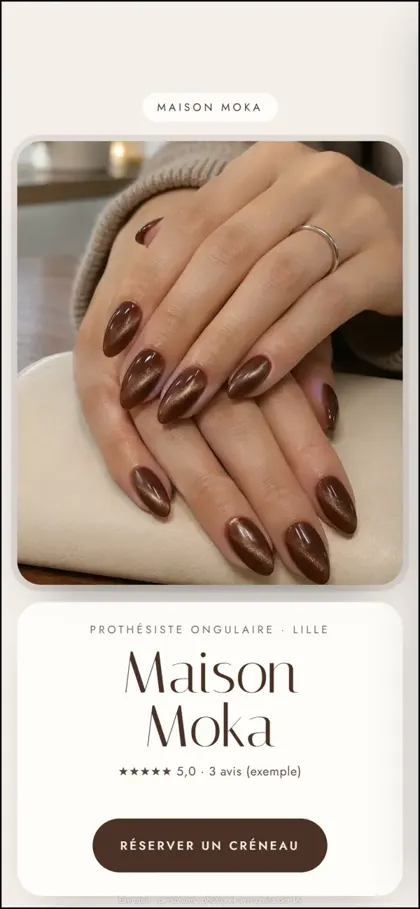
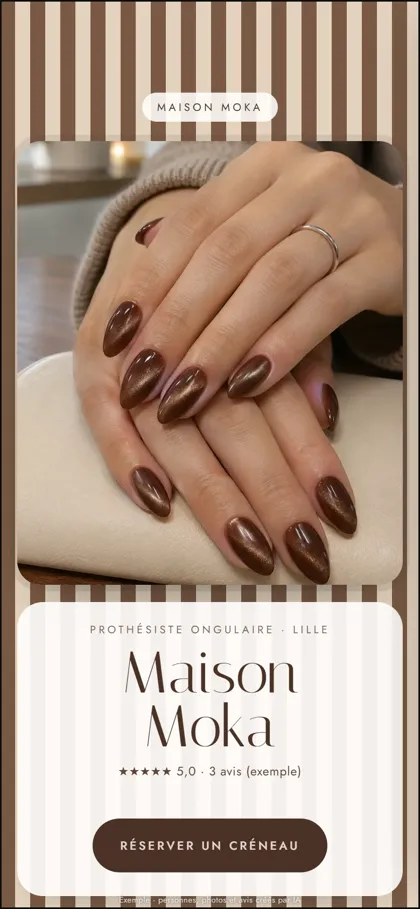
Sites classe : rayures moka (Maison Moka), damier noir et crème (Maison Noire, nom sur une bande crème), étoiles noires sur crème (Atelier Ronce)

Changed region(s): [[0.0, 0.0, 1.0, 1.0]]

diff --git a/accueil-ordi.html b/accueil-ordi.html
@@ -556,7 +556,7 @@ details p{margin:10px 0 0;font-size:14px;color:#4a4440;line-height:1.55}
 /* iPhone dans Safari : la bulle de l’adresse flotte en bas de l’écran, on remonte les boutons du bas */
 if(/iPhone|iPad|iPod/.test(navigator.userAgent)&&!navigator.standalone&&!matchMedia("(display-mode: standalone)").matches)document.documentElement.classList.add("ios-safari");
 if("scrollRestoration" in history)history.scrollRestoration="manual";scrollTo(0,0);addEventListener("pageshow",()=>scrollTo(0,0));
-const TPL=[["Maison Moka", "style=1&couleur=choco&mode=jour&police=elegante&paillettes=non&photos=moka-4&portrait=moka", "tpl-maisonmoka", "Amande"], ["Maison Noire", "style=1&epure=1&couleur=noir&mode=jour&police=luxe&paillettes=or&photos=noire-4&portrait=noire", "tpl-maisonnoire", "Ovale"], ["Atelier Ronce", "style=1&arrondi=1&couleur=noir&mode=jour&police=elegante&paillettes=argent&photos=blanc-3&portrait=blanc", "tpl-atelierronce", "Carré arrondi"], ["Maison Sauge", "style=3&couleur=sauge&mode=jour&police=elegante&paillettes=or&photos=douceur-2&photoune=salon&portrait=douceur", "tpl-maisonsauge", "Carré"], ["Maison Lin", "style=2&couleur=lin&mode=jour&police=chic&paillettes=nacre&photos=clean-2&portrait=clean", "tpl-maisonlin", "Stiletto"], ["Studio Poudré", "style=1&coffin=1&couleur=nude&mode=jour&police=elegante&paillettes=nacre&photos=poudre-3&portrait=poudre", "tpl-studiopoudre", "Coffin"]],UNI=[["Cerise", "style=3&couleur=choco&vif=rosep&nomc=rosep&mode=jour&fond=Cerises%20qui%20tombent&police=ronde&paillettes=rose&charm=noeudcerise,framboise,cerisedisco,cerisecoeur,ceriseruban,cerises-roses,noeudgelee&photos=cerise-5&photoune=haut&portrait=cerise", "cerise", "Cerises disco et vichy"], ["Pastel", "style=2&couleur=lilas&vif=mentep&nomc=lilasp&mode=jour&fond=Damier%20aquarelle%20et%20cerises&police=bonbon&paillettes=holo&charm=guimauve,fleurlilas,noeudgelee,marguerite,consoleviolette,axolotl&photos=pastel-3&photoune=salon&portrait=pastel", "pastel", "Guimauve, fleurs et vichy"], ["Chrome", "style=2&couleur=greige&mode=nuit&fond=%C3%89toiles%20strass%20argent&police=astres&paillettes=argent&charm=saturne,tribal,etoile4,papilloncyber&photos=chrome-4&photoune=salon&portrait=chrome", "chrome", "Argent, tribal et irisé"], ["Bling", "style=1&epure=1&couleur=choco&vif=jaunep&mode=jour&fond=L%C3%A9opard&police=bulle&paillettes=or&charm=boule8or,levresgrillz,cerisesor,etoilestrass,gourmette,hamsa,spray&photos=bling-5&photoune=salon&portrait=bling", "bling", "Léopard, chaînes et strass"], ["Emo", "style=1&arrondi=1&couleur=noir&vif=fuchsia&mode=jour&fond=Vinyles%20noir%20et%20cr%C3%A8me&police=feutre&charm=monstreemo,coeurrecousu,epingle,etoileemo,cranenoeud,chat&photos=emo-2&photoune=salon&portrait=emo", "emo", "Fluo, étoiles et petits monstres"], ["Riviera", "style=1&epure=1&couleur=jaune&vif=jaunep&nomc=bleup&mode=jour&fond=Majolique&police=parisienne&paillettes=or&charm=citron3d,tranchecitron,fleurmajolique,marguerite,noeudcitron,citron,potmarguerites&photos=riviera-3&photoune=salon&portrait=riviera", "riviera", "Citrons, faïence et soleil"], ["Sixties", "style=1&arrondi=1&couleur=abricot&vif=orange&mode=jour&fond=Pois%20beige&police=y2k&paillettes=argent&charm=lunettes,botte,cible,fleursixties,bonbon,bouledisco,boule8&photos=sixties-4&photoune=salon&portrait=sixties", "sixties", "Cibles, vagues et orange"], ["Baroque", "style=3&couleur=rose&vif=cerise&nomc=or&mode=jour&fond=Oliviers%20et%20hirondelles&police=calligraphie&paillettes=or&charm=camee,angelot,rosebordeaux,coeurrubis,noeudperledor&photos=baroque-2&photoune=salon&portrait=baroque", "baroque", "Roses, camées et velours"], ["Street", "style=1&couleur=jaune&vif=bleup&nomc=ciel&mode=jour&fond=Z%C3%A8bre%20peint&police=feutre&paillettes=argent&charm=spray,etoiledrip,eclair,couronnebleue,labrador,de,coeurzebre,boule8,etoileemo,manette,nounours,robot&chpos=spray~72-37.7_etoiledrip~59.2-14.1_eclair~5.4-23.1_couronnebleue~7-49_labrador~79.9-91.1_de~80-75.5_coeurzebre~15.3-6_boule8~72.3-55.5_etoileemo~37.7-45.6_manette~9.3-77.2_nounours~5.7-93.2_robot~76.8-4.6&photos=street-6&photoune=salon&portrait=street", "street", "Graffitis, chaînes et zèbre"], ["Japon", "style=2&couleur=choco&vif=pechep&nomc=blanc&mode=jour&fond=Mont%20Fuji%20et%20sakura&police=chic&paillettes=or&charm=sakura,koi,eventail,manekineko,sushi,ramen,bonsai,theiere,aloe&photos=japon-4&photoune=salon&portrait=japon", "japon", "Sakura, koï et Mont Fuji"], ["Tropical", "style=1&arrondi=1&couleur=sauge&vif=orange&mode=jour&police=y2k&paillettes=or&charm=papaye,fruitpassion,monstera,hibiscus,frangipanier,cactus,cactusboule,cactusrose,hibiscusrose,lunetteslilas,sakura,perroquet&chpos=papaye~79-7.7_fruitpassion~58.9-3.2_monstera~79-22.5_hibiscus~10.9-5.8_frangipanier~32.2-2.8_cactus~50.1-29.4_cactusboule~1-52.8_cactusrose~8.9-80.5_hibiscusrose~56.4-86.6_lunetteslilas~33.3-86.9_sakura~76.8-36.1_perroquet~78-58&photos=tropical-3&photoune=salon&portrait=tropical", "tropical", "Hibiscus, cactus et perroquet"], ["Sirène", "style=1&coffin=1&couleur=menthe&vif=turquoise&mode=jour&fond=Bulles&police=retro&paillettes=holo&charm=coquillage,saintjacques,perle,huitreperle,hippocampe,meduse,axolotl,cristaux,hippocampeturquoise,noeudperle,tortue,coquespirale&chpos=coquillage~74.2-15.6_saintjacques~62.8-29.9_perle~4.4-2.7_huitreperle~67.5-63_hippocampe~76.6-50_meduse~11-63.6_axolotl~33-7.3_cristaux~7.1-82.6_hippocampeturquoise~73.6-1.3_noeudperle~76.2-90.4_tortue~63.8-77.6_coquespirale~34.9-73.3&photos=sirene-3&photoune=salon&portrait=sirene", "sirene", "Coquillages, perles et bulles"], ["Féerique", "style=2&couleur=lilas&vif=rosep&nomc=lilasp&mode=jour&fond=Lavande%20s%C3%A9ch%C3%A9e&police=manuscrite&paillettes=or&charm=angelot,perle,papillondore,coquillage,coquespirale&photos=feerique-2&photoune=salon&portrait=feerique", "feerique", "Glycines, perles et papillons"], ["Céleste", "style=1&arrondi=1&couleur=sable&vif=chocob&mode=nuit&fond=Soleils%20et%20lunes%20sur%20vert%20sauge&police=astres&paillettes=or&charm=soleilvisage,lunesoleil,lune,etoile,papillondore,etoilestrass,ferdore&chpos=soleilvisage~69-5.6_lunesoleil~62.8-37_lune~81.6-22.3_etoile~4.8-34.3_papillondore~13.2-68.5_etoilestrass~57.8-87.8_ferdore~66.4-65.1&photos=celeste-4&photoune=salon&portrait=celeste", "celeste", "Soleils, lunes et étoiles"], ["Pop", "style=1&coffin=1&couleur=jaune&vif=orange&mode=jour&fond=Damier%20ondul%C3%A9&police=seventies&paillettes=holo&charm=chat,champignon,fleur,boule8,cerises,canard,monsterapot,marguerite,cassette&chpos=chat~46.1-6.5_champignon~80-10_fleur~4.7-18.8_boule8~82-40_cerises~5.1-53.4_canard~77.9-53.7_monsterapot~11.5-4.7_marguerite~64.5-69.3_cassette~17.3-72.7&photos=pop-6&photoune=salon&portrait=pop", "pop", "Damier, cerises et champignons"], ["Baddie", "style=1&couleur=noir&mode=nuit&fond=Z%C3%A8bre&police=retro&paillettes=or&charm=levres,coeurleopard,coeurzebre,cerisesbordeaux,escarpin,etoile,rougealevres,teckelcreme,plateforme,etoilechrome,etoiledrip&chpos=levres~4.6-71.5_coeurleopard~12-10_coeurzebre~4-24_cerisesbordeaux~82-40_escarpin~56.2-6.6_etoile~77.2-74.7_rougealevres~83-89.7_teckelcreme~28.3-59.9_plateforme~19-87.1_etoilechrome~78-57_etoiledrip~85.1-1.3&photos=baddie-4&photoune=salon&portrait=baddie", "baddie", "Rouge, léopard et talons"], ["Mignon", "style=1&epure=1&couleur=rose&mode=jour&fond=Rose%20coquette&police=bonbon&paillettes=nacre&charm=ceriseruban,fraiseperle,noeudgelee,fleurgelee,axolotl,framboise,pottulipes,macaron,fleurlilas,dragon&photos=mignon-4&photoune=salon&photosalon=1&portrait=mignon", "mignon", "Rose coquette et petits nœuds"], ["Y2K", "style=2&couleur=lilas&mode=jour&fond=Reflets%20disco&police=y2k&paillettes=holo&charm=coeurlilas,planete,oursonlilas,etoilelilas,martien,coeurchrome,casque,consoleviolette,papillon,sechecheveux,fleurlilas,vinyle&chpos=coeurlilas~62.2-54.9_planete~61-11.3_oursonlilas~9.6-26.3_etoilelilas~82-40_martien~2.3-55.6_coeurchrome~63-92.9_casque~13.6-9.9_consoleviolette~74.7-25.3_papillon~23.3-45.4_sechecheveux~65.7-81.6_fleurlilas~0-87.6_vinyle~83.5-71.8&photos=y2k-3&photoune=haut&portrait=y2k", "y2k", "Lilas, chrome et martiens"], ["Gothique", "style=1&couleur=noir&mode=nuit&fond=Rayures%20nuit&police=gothique&paillettes=argent&charm=araignee,croixgothique,lunegothique,vitrail,clegothique,chauvesouris,dague,papilloncyber,tribal,daguevio&chpos=araignee~38.1-55.1_croixgothique~80-10_lunegothique~81.5-52_vitrail~80.9-87.8_clegothique~3-58_chauvesouris~7.1-83.4_dague~12.5-5.5_papilloncyber~57.5-16.9_tribal~60.9-1.3_daguevio~75.9-66.9&photos=gothique-8&photoune=salon&portrait=gothique", "gothique", "Noir, croix et mystère"]],PLUIE=[...(matchMedia("(min-width: 1000px)").matches?["champirouge", "ancre", "poissonglobe", "cerises", "teckel", "sacmatelasse", "radis", "coeurepinesmetal", "clenoire", "avion", "aubergine", "ciseaux", "macaron", "chapeausorciere", "meduserose", "lanterne", "chemisepliee", "fleur", "venus", "manette", "luciole", "collierperles", "tribalfleche", "burrata", "instantane", "chocolatchaud", "mante", "coquespirale", "lavande", "pointes", "chihuahua", "balancejustice", "aileange", "clochegateau", "grimoirelune", "cachetcire", "arcaderose", "kiwi", "serpentor", "etoileemo", "lunenacre", "noeudcitron", "corail", "croixargent", "marquepage", "souris", "camerasport", "etoilesherif", "okapi", "amethyste", "succulente", "ferdore", "manekineko", "cadenasbordeaux", "sakura", "noeudvelours", "nichoir", "coeurepines", "nounours", "croissantchrome", "manetteblanche", "soleilvisage", "bergerallemand", "coeurleopard", "coquillage", "bouledisco", "plateauspa", "chaussonlapin", "coeurfeuille", "coeurzebre", "bottefleurie", "devanture", "toureiffel", "noeudrose", "noeuddore", "bonnet", "coeursacre", "etoileajouree", "bergeraustralien", "fuseerouge", "coeurpiques", "astronautebebe", "etoilebleuciel", "spiralechrome", "smartphone", "passiondemi", "gouvernail", "appareilretro", "palmier", "ferachevalet"]:[]),"teckelcreme", "sushi", "hibiscus", "bouledisco", "cerisedisco", "cocker", "fleur", "hippocampe", "martien", "monstera", "peche", "ramen", "planete", "pothos", "koi", "levresgrillz", "eclair", "chatecaille", "canard", "chapeaucowboy"];
+const TPL=[["Maison Moka", "style=1&couleur=choco&mode=jour&fond=Rayures%20moka&police=elegante&paillettes=non&photos=moka-4&portrait=moka", "tpl-maisonmoka", "Amande"], ["Maison Noire", "style=1&epure=1&couleur=noir&mode=jour&fond=Damier%20noir%20et%20cr%C3%A8me&police=luxe&paillettes=or&photos=noire-4&portrait=noire", "tpl-maisonnoire", "Ovale"], ["Atelier Ronce", "style=1&arrondi=1&couleur=noir&mode=jour&fond=%C3%89toiles%20noires%20sur%20cr%C3%A8me&police=elegante&paillettes=argent&photos=blanc-3&portrait=blanc", "tpl-atelierronce", "Carré arrondi"], ["Maison Sauge", "style=3&couleur=sauge&mode=jour&police=elegante&paillettes=or&photos=douceur-2&photoune=salon&portrait=douceur", "tpl-maisonsauge", "Carré"], ["Maison Lin", "style=2&couleur=lin&mode=jour&police=chic&paillettes=nacre&photos=clean-2&portrait=clean", "tpl-maisonlin", "Stiletto"], ["Studio Poudré", "style=1&coffin=1&couleur=nude&mode=jour&police=elegante&paillettes=nacre&photos=poudre-3&portrait=poudre", "tpl-studiopoudre", "Coffin"]],UNI=[["Cerise", "style=3&couleur=choco&vif=rosep&nomc=rosep&mode=jour&fond=Cerises%20qui%20tombent&police=ronde&paillettes=rose&charm=noeudcerise,framboise,cerisedisco,cerisecoeur,ceriseruban,cerises-roses,noeudgelee&photos=cerise-5&photoune=haut&portrait=cerise", "cerise", "Cerises disco et vichy"], ["Pastel", "style=2&couleur=lilas&vif=mentep&nomc=lilasp&mode=jour&fond=Damier%20aquarelle%20et%20cerises&police=bonbon&paillettes=holo&charm=guimauve,fleurlilas,noeudgelee,marguerite,consoleviolette,axolotl&photos=pastel-3&photoune=salon&portrait=pastel", "pastel", "Guimauve, fleurs et vichy"], ["Chrome", "style=2&couleur=greige&mode=nuit&fond=%C3%89toiles%20strass%20argent&police=astres&paillettes=argent&charm=saturne,tribal,etoile4,papilloncyber&photos=chrome-4&photoune=salon&portrait=chrome", "chrome", "Argent, tribal et irisé"], ["Bling", "style=1&epure=1&couleur=choco&vif=jaunep&mode=jour&fond=L%C3%A9opard&police=bulle&paillettes=or&charm=boule8or,levresgrillz,cerisesor,etoilestrass,gourmette,hamsa,spray&photos=bling-5&photoune=salon&portrait=bling", "bling", "Léopard, chaînes et strass"], ["Emo", "style=1&arrondi=1&couleur=noir&vif=fuchsia&mode=jour&fond=Vinyles%20noir%20et%20cr%C3%A8me&police=feutre&charm=monstreemo,coeurrecousu,epingle,etoileemo,cranenoeud,chat&photos=emo-2&photoune=salon&portrait=emo", "emo", "Fluo, étoiles et petits monstres"], ["Riviera", "style=1&epure=1&couleur=jaune&vif=jaunep&nomc=bleup&mode=jour&fond=Majolique&police=parisienne&paillettes=or&charm=citron3d,tranchecitron,fleurmajolique,marguerite,noeudcitron,citron,potmarguerites&photos=riviera-3&photoune=salon&portrait=riviera", "riviera", "Citrons, faïence et soleil"], ["Sixties", "style=1&arrondi=1&couleur=abricot&vif=orange&mode=jour&fond=Pois%20beige&police=y2k&paillettes=argent&charm=lunettes,botte,cible,fleursixties,bonbon,bouledisco,boule8&photos=sixties-4&photoune=salon&portrait=sixties", "sixties", "Cibles, vagues et orange"], ["Baroque", "style=3&couleur=rose&vif=cerise&nomc=or&mode=jour&fond=Oliviers%20et%20hirondelles&police=calligraphie&paillettes=or&charm=camee,angelot,rosebordeaux,coeurrubis,noeudperledor&photos=baroque-2&photoune=salon&portrait=baroque", "baroque", "Roses, camées et velours"], ["Street", "style=1&couleur=jaune&vif=bleup&nomc=ciel&mode=jour&fond=Z%C3%A8bre%20peint&police=feutre&paillettes=argent&charm=spray,etoiledrip,eclair,couronnebleue,labrador,de,coeurzebre,boule8,etoileemo,manette,nounours,robot&chpos=spray~72-37.7_etoiledrip~59.2-14.1_eclair~5.4-23.1_couronnebleue~7-49_labrador~79.9-91.1_de~80-75.5_coeurzebre~15.3-6_boule8~72.3-55.5_etoileemo~37.7-45.6_manette~9.3-77.2_nounours~5.7-93.2_robot~76.8-4.6&photos=street-6&photoune=salon&portrait=street", "street", "Graffitis, chaînes et zèbre"], ["Japon", "style=2&couleur=choco&vif=pechep&nomc=blanc&mode=jour&fond=Mont%20Fuji%20et%20sakura&police=chic&paillettes=or&charm=sakura,koi,eventail,manekineko,sushi,ramen,bonsai,theiere,aloe&photos=japon-4&photoune=salon&portrait=japon", "japon", "Sakura, koï et Mont Fuji"], ["Tropical", "style=1&arrondi=1&couleur=sauge&vif=orange&mode=jour&police=y2k&paillettes=or&charm=papaye,fruitpassion,monstera,hibiscus,frangipanier,cactus,cactusboule,cactusrose,hibiscusrose,lunetteslilas,sakura,perroquet&chpos=papaye~79-7.7_fruitpassion~58.9-3.2_monstera~79-22.5_hibiscus~10.9-5.8_frangipanier~32.2-2.8_cactus~50.1-29.4_cactusboule~1-52.8_cactusrose~8.9-80.5_hibiscusrose~56.4-86.6_lunetteslilas~33.3-86.9_sakura~76.8-36.1_perroquet~78-58&photos=tropical-3&photoune=salon&portrait=tropical", "tropical", "Hibiscus, cactus et perroquet"], ["Sirène", "style=1&coffin=1&couleur=menthe&vif=turquoise&mode=jour&fond=Bulles&police=retro&paillettes=holo&charm=coquillage,saintjacques,perle,huitreperle,hippocampe,meduse,axolotl,cristaux,hippocampeturquoise,noeudperle,tortue,coquespirale&chpos=coquillage~74.2-15.6_saintjacques~62.8-29.9_perle~4.4-2.7_huitreperle~67.5-63_hippocampe~76.6-50_meduse~11-63.6_axolotl~33-7.3_cristaux~7.1-82.6_hippocampeturquoise~73.6-1.3_noeudperle~76.2-90.4_tortue~63.8-77.6_coquespirale~34.9-73.3&photos=sirene-3&photoune=salon&portrait=sirene", "sirene", "Coquillages, perles et bulles"], ["Féerique", "style=2&couleur=lilas&vif=rosep&nomc=lilasp&mode=jour&fond=Lavande%20s%C3%A9ch%C3%A9e&police=manuscrite&paillettes=or&charm=angelot,perle,papillondore,coquillage,coquespirale&photos=feerique-2&photoune=salon&portrait=feerique", "feerique", "Glycines, perles et papillons"], ["Céleste", "style=1&arrondi=1&couleur=sable&vif=chocob&mode=nuit&fond=Soleils%20et%20lunes%20sur%20vert%20sauge&police=astres&paillettes=or&charm=soleilvisage,lunesoleil,lune,etoile,papillondore,etoilestrass,ferdore&chpos=soleilvisage~69-5.6_lunesoleil~62.8-37_lune~81.6-22.3_etoile~4.8-34.3_papillondore~13.2-68.5_etoilestrass~57.8-87.8_ferdore~66.4-65.1&photos=celeste-4&photoune=salon&portrait=celeste", "celeste", "Soleils, lunes et étoiles"], ["Pop", "style=1&coffin=1&couleur=jaune&vif=orange&mode=jour&fond=Damier%20ondul%C3%A9&police=seventies&paillettes=holo&charm=chat,champignon,fleur,boule8,cerises,canard,monsterapot,marguerite,cassette&chpos=chat~46.1-6.5_champignon~80-10_fleur~4.7-18.8_boule8~82-40_cerises~5.1-53.4_canard~77.9-53.7_monsterapot~11.5-4.7_marguerite~64.5-69.3_cassette~17.3-72.7&photos=pop-6&photoune=salon&portrait=pop", "pop", "Damier, cerises et champignons"], ["Baddie", "style=1&couleur=noir&mode=nuit&fond=Z%C3%A8bre&police=retro&paillettes=or&charm=levres,coeurleopard,coeurzebre,cerisesbordeaux,escarpin,etoile,rougealevres,teckelcreme,plateforme,etoilechrome,etoiledrip&chpos=levres~4.6-71.5_coeurleopard~12-10_coeurzebre~4-24_cerisesbordeaux~82-40_escarpin~56.2-6.6_etoile~77.2-74.7_rougealevres~83-89.7_teckelcreme~28.3-59.9_plateforme~19-87.1_etoilechrome~78-57_etoiledrip~85.1-1.3&photos=baddie-4&photoune=salon&portrait=baddie", "baddie", "Rouge, léopard et talons"], ["Mignon", "style=1&epure=1&couleur=rose&mode=jour&fond=Rose%20coquette&police=bonbon&paillettes=nacre&charm=ceriseruban,fraiseperle,noeudgelee,fleurgelee,axolotl,framboise,pottulipes,macaron,fleurlilas,dragon&photos=mignon-4&photoune=salon&photosalon=1&portrait=mignon", "mignon", "Rose coquette et petits nœuds"], ["Y2K", "style=2&couleur=lilas&mode=jour&fond=Reflets%20disco&police=y2k&paillettes=holo&charm=coeurlilas,planete,oursonlilas,etoilelilas,martien,coeurchrome,casque,consoleviolette,papillon,sechecheveux,fleurlilas,vinyle&chpos=coeurlilas~62.2-54.9_planete~61-11.3_oursonlilas~9.6-26.3_etoilelilas~82-40_martien~2.3-55.6_coeurchrome~63-92.9_casque~13.6-9.9_consoleviolette~74.7-25.3_papillon~23.3-45.4_sechecheveux~65.7-81.6_fleurlilas~0-87.6_vinyle~83.5-71.8&photos=y2k-3&photoune=haut&portrait=y2k", "y2k", "Lilas, chrome et martiens"], ["Gothique", "style=1&couleur=noir&mode=nuit&fond=Rayures%20nuit&police=gothique&paillettes=argent&charm=araignee,croixgothique,lunegothique,vitrail,clegothique,chauvesouris,dague,papilloncyber,tribal,daguevio&chpos=araignee~38.1-55.1_croixgothique~80-10_lunegothique~81.5-52_vitrail~80.9-87.8_clegothique~3-58_chauvesouris~7.1-83.4_dague~12.5-5.5_papilloncyber~57.5-16.9_tribal~60.9-1.3_daguevio~75.9-66.9&photos=gothique-8&photoune=salon&portrait=gothique", "gothique", "Noir, croix et mystère"]],PLUIE=[...(matchMedia("(min-width: 1000px)").matches?["champirouge", "ancre", "poissonglobe", "cerises", "teckel", "sacmatelasse", "radis", "coeurepinesmetal", "clenoire", "avion", "aubergine", "ciseaux", "macaron", "chapeausorciere", "meduserose", "lanterne", "chemisepliee", "fleur", "venus", "manette", "luciole", "collierperles", "tribalfleche", "burrata", "instantane", "chocolatchaud", "mante", "coquespirale", "lavande", "pointes", "chihuahua", "balancejustice", "aileange", "clochegateau", "grimoirelune", "cachetcire", "arcaderose", "kiwi", "serpentor", "etoileemo", "lunenacre", "noeudcitron", "corail", "croixargent", "marquepage", "souris", "camerasport", "etoilesherif", "okapi", "amethyste", "succulente", "ferdore", "manekineko", "cadenasbordeaux", "sakura", "noeudvelours", "nichoir", "coeurepines", "nounours", "croissantchrome", "manetteblanche", "soleilvisage", "bergerallemand", "coeurleopard", "coquillage", "bouledisco", "plateauspa", "chaussonlapin", "coeurfeuille", "coeurzebre", "bottefleurie", "devanture", "toureiffel", "noeudrose", "noeuddore", "bonnet", "coeursacre", "etoileajouree", "bergeraustralien", "fuseerouge", "coeurpiques", "astronautebebe", "etoilebleuciel", "spiralechrome", "smartphone", "passiondemi", "gouvernail", "appareilretro", "palmier", "ferachevalet"]:[]),"teckelcreme", "sushi", "hibiscus", "bouledisco", "cerisedisco", "cocker", "fleur", "hippocampe", "martien", "monstera", "peche", "ramen", "planete", "pothos", "koi", "levresgrillz", "eclair", "chatecaille", "canard", "chapeaucowboy"];
 const url=q=>"loginail-creer/pret.html?public&nouveau&exemple=dilerna&"+q;
 /* (anciennes galeries) */ void TPL.map(t=>`<a class="carte" href="${url(t[1])}" data-u="${url(t[1])}"><div class="ph"><img src="loginail-site/apercus-mini/${t[2]}.webp" alt="" loading="lazy"></div><b>${t[0]}</b><small>${t[3]} · touchez pour ouvrir</small></a>`).join("");
 void UNI.map(t=>`<a class="carte" href="${url(t[1])}" data-u="${url(t[1])}"><div class="ph"><img src="loginail-site/apercus-mini/${t[2]}.webp" alt="" loading="lazy"></div><b>${t[0]}</b><small>${t[3]}</small></a>`).join("");

diff --git a/telephone.html b/telephone.html
@@ -343,7 +343,7 @@ details p{margin:10px 0 0;font-size:14px;color:#4a4440;line-height:1.55}
 /* iPhone dans Safari : la bulle de l’adresse flotte en bas de l’écran, on remonte les boutons du bas */
 if(/iPhone|iPad|iPod/.test(navigator.userAgent)&&!navigator.standalone&&!matchMedia("(display-mode: standalone)").matches)document.documentElement.classList.add("ios-safari");
 if("scrollRestoration" in history)history.scrollRestoration="manual";scrollTo(0,0);addEventListener("pageshow",()=>scrollTo(0,0));
-const TPL=[["Maison Moka", "style=1&couleur=choco&mode=jour&police=elegante&paillettes=non&photos=moka-4&portrait=moka", "tpl-maisonmoka", "Amande"], ["Maison Noire", "style=1&epure=1&couleur=noir&mode=jour&police=luxe&paillettes=or&photos=noire-4&portrait=noire", "tpl-maisonnoire", "Ovale"], ["Atelier Ronce", "style=1&arrondi=1&couleur=noir&mode=jour&police=elegante&paillettes=argent&photos=blanc-3&portrait=blanc", "tpl-atelierronce", "Carré arrondi"], ["Maison Sauge", "style=3&couleur=sauge&mode=jour&police=elegante&paillettes=or&photos=douceur-2&photoune=salon&portrait=douceur", "tpl-maisonsauge", "Carré"], ["Maison Lin", "style=2&couleur=lin&mode=jour&police=chic&paillettes=nacre&photos=clean-2&portrait=clean", "tpl-maisonlin", "Stiletto"], ["Studio Poudré", "style=1&coffin=1&couleur=nude&mode=jour&police=elegante&paillettes=nacre&photos=poudre-3&portrait=poudre", "tpl-studiopoudre", "Coffin"]],UNI=[["Cerise", "style=3&couleur=choco&vif=rosep&nomc=rosep&mode=jour&fond=Cerises%20qui%20tombent&police=ronde&paillettes=rose&charm=noeudcerise,framboise,cerisedisco,cerisecoeur,ceriseruban,cerises-roses,noeudgelee&photos=cerise-5&photoune=haut&portrait=cerise", "cerise", "Cerises disco et vichy"], ["Pastel", "style=2&couleur=lilas&vif=mentep&nomc=lilasp&mode=jour&fond=Damier%20aquarelle%20et%20cerises&police=bonbon&paillettes=holo&charm=guimauve,fleurlilas,noeudgelee,marguerite,consoleviolette,axolotl&photos=pastel-3&photoune=salon&portrait=pastel", "pastel", "Guimauve, fleurs et vichy"], ["Chrome", "style=2&couleur=greige&mode=nuit&fond=%C3%89toiles%20strass%20argent&police=astres&paillettes=argent&charm=saturne,tribal,etoile4,papilloncyber&photos=chrome-4&photoune=salon&portrait=chrome", "chrome", "Argent, tribal et irisé"], ["Bling", "style=1&epure=1&couleur=choco&vif=jaunep&mode=jour&fond=L%C3%A9opard&police=bulle&paillettes=or&charm=boule8or,levresgrillz,cerisesor,etoilestrass,gourmette,hamsa,spray&photos=bling-5&photoune=salon&portrait=bling", "bling", "Léopard, chaînes et strass"], ["Emo", "style=1&arrondi=1&couleur=noir&vif=fuchsia&mode=jour&fond=Vinyles%20noir%20et%20cr%C3%A8me&police=feutre&charm=monstreemo,coeurrecousu,epingle,etoileemo,cranenoeud,chat&photos=emo-2&photoune=salon&portrait=emo", "emo", "Fluo, étoiles et petits monstres"], ["Riviera", "style=1&epure=1&couleur=jaune&vif=jaunep&nomc=bleup&mode=jour&fond=Majolique&police=parisienne&paillettes=or&charm=citron3d,tranchecitron,fleurmajolique,marguerite,noeudcitron,citron,potmarguerites&photos=riviera-3&photoune=salon&portrait=riviera", "riviera", "Citrons, faïence et soleil"], ["Sixties", "style=1&arrondi=1&couleur=abricot&vif=orange&mode=jour&fond=Pois%20beige&police=y2k&paillettes=argent&charm=lunettes,botte,cible,fleursixties,bonbon,bouledisco,boule8&photos=sixties-4&photoune=salon&portrait=sixties", "sixties", "Cibles, vagues et orange"], ["Baroque", "style=3&couleur=rose&vif=cerise&nomc=or&mode=jour&fond=Oliviers%20et%20hirondelles&police=calligraphie&paillettes=or&charm=camee,angelot,rosebordeaux,coeurrubis,noeudperledor&photos=baroque-2&photoune=salon&portrait=baroque", "baroque", "Roses, camées et velours"], ["Street", "style=1&couleur=jaune&vif=bleup&nomc=ciel&mode=jour&fond=Z%C3%A8bre%20peint&police=feutre&paillettes=argent&charm=spray,etoiledrip,eclair,couronnebleue,labrador,de,coeurzebre,boule8,etoileemo,manette,nounours,robot&chpos=spray~72-37.7_etoiledrip~59.2-14.1_eclair~5.4-23.1_couronnebleue~7-49_labrador~79.9-91.1_de~80-75.5_coeurzebre~15.3-6_boule8~72.3-55.5_etoileemo~37.7-45.6_manette~9.3-77.2_nounours~5.7-93.2_robot~76.8-4.6&photos=street-6&photoune=salon&portrait=street", "street", "Graffitis, chaînes et zèbre"], ["Japon", "style=2&couleur=choco&vif=pechep&nomc=blanc&mode=jour&fond=Mont%20Fuji%20et%20sakura&police=chic&paillettes=or&charm=sakura,koi,eventail,manekineko,sushi,ramen,bonsai,theiere,aloe&photos=japon-4&photoune=salon&portrait=japon", "japon", "Sakura, koï et Mont Fuji"], ["Tropical", "style=1&arrondi=1&couleur=sauge&vif=orange&mode=jour&police=y2k&paillettes=or&charm=papaye,fruitpassion,monstera,hibiscus,frangipanier,cactus,cactusboule,cactusrose,hibiscusrose,lunetteslilas,sakura,perroquet&chpos=papaye~79-7.7_fruitpassion~58.9-3.2_monstera~79-22.5_hibiscus~10.9-5.8_frangipanier~32.2-2.8_cactus~50.1-29.4_cactusboule~1-52.8_cactusrose~8.9-80.5_hibiscusrose~56.4-86.6_lunetteslilas~33.3-86.9_sakura~76.8-36.1_perroquet~78-58&photos=tropical-3&photoune=salon&portrait=tropical", "tropical", "Hibiscus, cactus et perroquet"], ["Sirène", "style=1&coffin=1&couleur=menthe&vif=turquoise&mode=jour&fond=Bulles&police=retro&paillettes=holo&charm=coquillage,saintjacques,perle,huitreperle,hippocampe,meduse,axolotl,cristaux,hippocampeturquoise,noeudperle,tortue,coquespirale&chpos=coquillage~74.2-15.6_saintjacques~62.8-29.9_perle~4.4-2.7_huitreperle~67.5-63_hippocampe~76.6-50_meduse~11-63.6_axolotl~33-7.3_cristaux~7.1-82.6_hippocampeturquoise~73.6-1.3_noeudperle~76.2-90.4_tortue~63.8-77.6_coquespirale~34.9-73.3&photos=sirene-3&photoune=salon&portrait=sirene", "sirene", "Coquillages, perles et bulles"], ["Féerique", "style=2&couleur=lilas&vif=rosep&nomc=lilasp&mode=jour&fond=Lavande%20s%C3%A9ch%C3%A9e&police=manuscrite&paillettes=or&charm=angelot,perle,papillondore,coquillage,coquespirale&photos=feerique-2&photoune=salon&portrait=feerique", "feerique", "Glycines, perles et papillons"], ["Céleste", "style=1&arrondi=1&couleur=sable&vif=chocob&mode=nuit&fond=Soleils%20et%20lunes%20sur%20vert%20sauge&police=astres&paillettes=or&charm=soleilvisage,lunesoleil,lune,etoile,papillondore,etoilestrass,ferdore&chpos=soleilvisage~69-5.6_lunesoleil~62.8-37_lune~81.6-22.3_etoile~4.8-34.3_papillondore~13.2-68.5_etoilestrass~57.8-87.8_ferdore~66.4-65.1&photos=celeste-4&photoune=salon&portrait=celeste", "celeste", "Soleils, lunes et étoiles"], ["Pop", "style=1&coffin=1&couleur=jaune&vif=orange&mode=jour&fond=Damier%20ondul%C3%A9&police=seventies&paillettes=holo&charm=chat,champignon,fleur,boule8,cerises,canard,monsterapot,marguerite,cassette&chpos=chat~46.1-6.5_champignon~80-10_fleur~4.7-18.8_boule8~82-40_cerises~5.1-53.4_canard~77.9-53.7_monsterapot~11.5-4.7_marguerite~64.5-69.3_cassette~17.3-72.7&photos=pop-6&photoune=salon&portrait=pop", "pop", "Damier, cerises et champignons"], ["Baddie", "style=1&couleur=noir&mode=nuit&fond=Z%C3%A8bre&police=retro&paillettes=or&charm=levres,coeurleopard,coeurzebre,cerisesbordeaux,escarpin,etoile,rougealevres,teckelcreme,plateforme,etoilechrome,etoiledrip&chpos=levres~4.6-71.5_coeurleopard~12-10_coeurzebre~4-24_cerisesbordeaux~82-40_escarpin~56.2-6.6_etoile~77.2-74.7_rougealevres~83-89.7_teckelcreme~28.3-59.9_plateforme~19-87.1_etoilechrome~78-57_etoiledrip~85.1-1.3&photos=baddie-4&photoune=salon&portrait=baddie", "baddie", "Rouge, léopard et talons"], ["Mignon", "style=1&epure=1&couleur=rose&mode=jour&fond=Rose%20coquette&police=bonbon&paillettes=nacre&charm=ceriseruban,fraiseperle,noeudgelee,fleurgelee,axolotl,framboise,pottulipes,macaron,fleurlilas,dragon&photos=mignon-4&photoune=salon&photosalon=1&portrait=mignon", "mignon", "Rose coquette et petits nœuds"], ["Y2K", "style=2&couleur=lilas&mode=jour&fond=Reflets%20disco&police=y2k&paillettes=holo&charm=coeurlilas,planete,oursonlilas,etoilelilas,martien,coeurchrome,casque,consoleviolette,papillon,sechecheveux,fleurlilas,vinyle&chpos=coeurlilas~62.2-54.9_planete~61-11.3_oursonlilas~9.6-26.3_etoilelilas~82-40_martien~2.3-55.6_coeurchrome~63-92.9_casque~13.6-9.9_consoleviolette~74.7-25.3_papillon~23.3-45.4_sechecheveux~65.7-81.6_fleurlilas~0-87.6_vinyle~83.5-71.8&photos=y2k-3&photoune=haut&portrait=y2k", "y2k", "Lilas, chrome et martiens"], ["Gothique", "style=1&couleur=noir&mode=nuit&fond=Rayures%20nuit&police=gothique&paillettes=argent&charm=araignee,croixgothique,lunegothique,vitrail,clegothique,chauvesouris,dague,papilloncyber,tribal,daguevio&chpos=araignee~38.1-55.1_croixgothique~80-10_lunegothique~81.5-52_vitrail~80.9-87.8_clegothique~3-58_chauvesouris~7.1-83.4_dague~12.5-5.5_papilloncyber~57.5-16.9_tribal~60.9-1.3_daguevio~75.9-66.9&photos=gothique-8&photoune=salon&portrait=gothique", "gothique", "Noir, croix et mystère"]],PLUIE=["teckelcreme", "sushi", "hibiscus", "bouledisco", "cerisedisco", "cocker", "fleur", "hippocampe", "martien", "monstera", "peche", "ramen", "planete", "pothos", "koi", "levresgrillz", "eclair", "chatecaille", "canard", "chapeaucowboy"];
+const TPL=[["Maison Moka", "style=1&couleur=choco&mode=jour&fond=Rayures%20moka&police=elegante&paillettes=non&photos=moka-4&portrait=moka", "tpl-maisonmoka", "Amande"], ["Maison Noire", "style=1&epure=1&couleur=noir&mode=jour&fond=Damier%20noir%20et%20cr%C3%A8me&police=luxe&paillettes=or&photos=noire-4&portrait=noire", "tpl-maisonnoire", "Ovale"], ["Atelier Ronce", "style=1&arrondi=1&couleur=noir&mode=jour&fond=%C3%89toiles%20noires%20sur%20cr%C3%A8me&police=elegante&paillettes=argent&photos=blanc-3&portrait=blanc", "tpl-atelierronce", "Carré arrondi"], ["Maison Sauge", "style=3&couleur=sauge&mode=jour&police=elegante&paillettes=or&photos=douceur-2&photoune=salon&portrait=douceur", "tpl-maisonsauge", "Carré"], ["Maison Lin", "style=2&couleur=lin&mode=jour&police=chic&paillettes=nacre&photos=clean-2&portrait=clean", "tpl-maisonlin", "Stiletto"], ["Studio Poudré", "style=1&coffin=1&couleur=nude&mode=jour&police=elegante&paillettes=nacre&photos=poudre-3&portrait=poudre", "tpl-studiopoudre", "Coffin"]],UNI=[["Cerise", "style=3&couleur=choco&vif=rosep&nomc=rosep&mode=jour&fond=Cerises%20qui%20tombent&police=ronde&paillettes=rose&charm=noeudcerise,framboise,cerisedisco,cerisecoeur,ceriseruban,cerises-roses,noeudgelee&photos=cerise-5&photoune=haut&portrait=cerise", "cerise", "Cerises disco et vichy"], ["Pastel", "style=2&couleur=lilas&vif=mentep&nomc=lilasp&mode=jour&fond=Damier%20aquarelle%20et%20cerises&police=bonbon&paillettes=holo&charm=guimauve,fleurlilas,noeudgelee,marguerite,consoleviolette,axolotl&photos=pastel-3&photoune=salon&portrait=pastel", "pastel", "Guimauve, fleurs et vichy"], ["Chrome", "style=2&couleur=greige&mode=nuit&fond=%C3%89toiles%20strass%20argent&police=astres&paillettes=argent&charm=saturne,tribal,etoile4,papilloncyber&photos=chrome-4&photoune=salon&portrait=chrome", "chrome", "Argent, tribal et irisé"], ["Bling", "style=1&epure=1&couleur=choco&vif=jaunep&mode=jour&fond=L%C3%A9opard&police=bulle&paillettes=or&charm=boule8or,levresgrillz,cerisesor,etoilestrass,gourmette,hamsa,spray&photos=bling-5&photoune=salon&portrait=bling", "bling", "Léopard, chaînes et strass"], ["Emo", "style=1&arrondi=1&couleur=noir&vif=fuchsia&mode=jour&fond=Vinyles%20noir%20et%20cr%C3%A8me&police=feutre&charm=monstreemo,coeurrecousu,epingle,etoileemo,cranenoeud,chat&photos=emo-2&photoune=salon&portrait=emo", "emo", "Fluo, étoiles et petits monstres"], ["Riviera", "style=1&epure=1&couleur=jaune&vif=jaunep&nomc=bleup&mode=jour&fond=Majolique&police=parisienne&paillettes=or&charm=citron3d,tranchecitron,fleurmajolique,marguerite,noeudcitron,citron,potmarguerites&photos=riviera-3&photoune=salon&portrait=riviera", "riviera", "Citrons, faïence et soleil"], ["Sixties", "style=1&arrondi=1&couleur=abricot&vif=orange&mode=jour&fond=Pois%20beige&police=y2k&paillettes=argent&charm=lunettes,botte,cible,fleursixties,bonbon,bouledisco,boule8&photos=sixties-4&photoune=salon&portrait=sixties", "sixties", "Cibles, vagues et orange"], ["Baroque", "style=3&couleur=rose&vif=cerise&nomc=or&mode=jour&fond=Oliviers%20et%20hirondelles&police=calligraphie&paillettes=or&charm=camee,angelot,rosebordeaux,coeurrubis,noeudperledor&photos=baroque-2&photoune=salon&portrait=baroque", "baroque", "Roses, camées et velours"], ["Street", "style=1&couleur=jaune&vif=bleup&nomc=ciel&mode=jour&fond=Z%C3%A8bre%20peint&police=feutre&paillettes=argent&charm=spray,etoiledrip,eclair,couronnebleue,labrador,de,coeurzebre,boule8,etoileemo,manette,nounours,robot&chpos=spray~72-37.7_etoiledrip~59.2-14.1_eclair~5.4-23.1_couronnebleue~7-49_labrador~79.9-91.1_de~80-75.5_coeurzebre~15.3-6_boule8~72.3-55.5_etoileemo~37.7-45.6_manette~9.3-77.2_nounours~5.7-93.2_robot~76.8-4.6&photos=street-6&photoune=salon&portrait=street", "street", "Graffitis, chaînes et zèbre"], ["Japon", "style=2&couleur=choco&vif=pechep&nomc=blanc&mode=jour&fond=Mont%20Fuji%20et%20sakura&police=chic&paillettes=or&charm=sakura,koi,eventail,manekineko,sushi,ramen,bonsai,theiere,aloe&photos=japon-4&photoune=salon&portrait=japon", "japon", "Sakura, koï et Mont Fuji"], ["Tropical", "style=1&arrondi=1&couleur=sauge&vif=orange&mode=jour&police=y2k&paillettes=or&charm=papaye,fruitpassion,monstera,hibiscus,frangipanier,cactus,cactusboule,cactusrose,hibiscusrose,lunetteslilas,sakura,perroquet&chpos=papaye~79-7.7_fruitpassion~58.9-3.2_monstera~79-22.5_hibiscus~10.9-5.8_frangipanier~32.2-2.8_cactus~50.1-29.4_cactusboule~1-52.8_cactusrose~8.9-80.5_hibiscusrose~56.4-86.6_lunetteslilas~33.3-86.9_sakura~76.8-36.1_perroquet~78-58&photos=tropical-3&photoune=salon&portrait=tropical", "tropical", "Hibiscus, cactus et perroquet"], ["Sirène", "style=1&coffin=1&couleur=menthe&vif=turquoise&mode=jour&fond=Bulles&police=retro&paillettes=holo&charm=coquillage,saintjacques,perle,huitreperle,hippocampe,meduse,axolotl,cristaux,hippocampeturquoise,noeudperle,tortue,coquespirale&chpos=coquillage~74.2-15.6_saintjacques~62.8-29.9_perle~4.4-2.7_huitreperle~67.5-63_hippocampe~76.6-50_meduse~11-63.6_axolotl~33-7.3_cristaux~7.1-82.6_hippocampeturquoise~73.6-1.3_noeudperle~76.2-90.4_tortue~63.8-77.6_coquespirale~34.9-73.3&photos=sirene-3&photoune=salon&portrait=sirene", "sirene", "Coquillages, perles et bulles"], ["Féerique", "style=2&couleur=lilas&vif=rosep&nomc=lilasp&mode=jour&fond=Lavande%20s%C3%A9ch%C3%A9e&police=manuscrite&paillettes=or&charm=angelot,perle,papillondore,coquillage,coquespirale&photos=feerique-2&photoune=salon&portrait=feerique", "feerique", "Glycines, perles et papillons"], ["Céleste", "style=1&arrondi=1&couleur=sable&vif=chocob&mode=nuit&fond=Soleils%20et%20lunes%20sur%20vert%20sauge&police=astres&paillettes=or&charm=soleilvisage,lunesoleil,lune,etoile,papillondore,etoilestrass,ferdore&chpos=soleilvisage~69-5.6_lunesoleil~62.8-37_lune~81.6-22.3_etoile~4.8-34.3_papillondore~13.2-68.5_etoilestrass~57.8-87.8_ferdore~66.4-65.1&photos=celeste-4&photoune=salon&portrait=celeste", "celeste", "Soleils, lunes et étoiles"], ["Pop", "style=1&coffin=1&couleur=jaune&vif=orange&mode=jour&fond=Damier%20ondul%C3%A9&police=seventies&paillettes=holo&charm=chat,champignon,fleur,boule8,cerises,canard,monsterapot,marguerite,cassette&chpos=chat~46.1-6.5_champignon~80-10_fleur~4.7-18.8_boule8~82-40_cerises~5.1-53.4_canard~77.9-53.7_monsterapot~11.5-4.7_marguerite~64.5-69.3_cassette~17.3-72.7&photos=pop-6&photoune=salon&portrait=pop", "pop", "Damier, cerises et champignons"], ["Baddie", "style=1&couleur=noir&mode=nuit&fond=Z%C3%A8bre&police=retro&paillettes=or&charm=levres,coeurleopard,coeurzebre,cerisesbordeaux,escarpin,etoile,rougealevres,teckelcreme,plateforme,etoilechrome,etoiledrip&chpos=levres~4.6-71.5_coeurleopard~12-10_coeurzebre~4-24_cerisesbordeaux~82-40_escarpin~56.2-6.6_etoile~77.2-74.7_rougealevres~83-89.7_teckelcreme~28.3-59.9_plateforme~19-87.1_etoilechrome~78-57_etoiledrip~85.1-1.3&photos=baddie-4&photoune=salon&portrait=baddie", "baddie", "Rouge, léopard et talons"], ["Mignon", "style=1&epure=1&couleur=rose&mode=jour&fond=Rose%20coquette&police=bonbon&paillettes=nacre&charm=ceriseruban,fraiseperle,noeudgelee,fleurgelee,axolotl,framboise,pottulipes,macaron,fleurlilas,dragon&photos=mignon-4&photoune=salon&photosalon=1&portrait=mignon", "mignon", "Rose coquette et petits nœuds"], ["Y2K", "style=2&couleur=lilas&mode=jour&fond=Reflets%20disco&police=y2k&paillettes=holo&charm=coeurlilas,planete,oursonlilas,etoilelilas,martien,coeurchrome,casque,consoleviolette,papillon,sechecheveux,fleurlilas,vinyle&chpos=coeurlilas~62.2-54.9_planete~61-11.3_oursonlilas~9.6-26.3_etoilelilas~82-40_martien~2.3-55.6_coeurchrome~63-92.9_casque~13.6-9.9_consoleviolette~74.7-25.3_papillon~23.3-45.4_sechecheveux~65.7-81.6_fleurlilas~0-87.6_vinyle~83.5-71.8&photos=y2k-3&photoune=haut&portrait=y2k", "y2k", "Lilas, chrome et martiens"], ["Gothique", "style=1&couleur=noir&mode=nuit&fond=Rayures%20nuit&police=gothique&paillettes=argent&charm=araignee,croixgothique,lunegothique,vitrail,clegothique,chauvesouris,dague,papilloncyber,tribal,daguevio&chpos=araignee~38.1-55.1_croixgothique~80-10_lunegothique~81.5-52_vitrail~80.9-87.8_clegothique~3-58_chauvesouris~7.1-83.4_dague~12.5-5.5_papilloncyber~57.5-16.9_tribal~60.9-1.3_daguevio~75.9-66.9&photos=gothique-8&photoune=salon&portrait=gothique", "gothique", "Noir, croix et mystère"]],PLUIE=["teckelcreme", "sushi", "hibiscus", "bouledisco", "cerisedisco", "cocker", "fleur", "hippocampe", "martien", "monstera", "peche", "ramen", "planete", "pothos", "koi", "levresgrillz", "eclair", "chatecaille", "canard", "chapeaucowboy"];
 const url=q=>"loginail-creer/pret.html?public&nouveau&exemple=dilerna&"+q;
 /* (anciennes galeries) */ void TPL.map(t=>`<a class="carte" href="${url(t[1])}" data-u="${url(t[1])}"><div class="ph"><img src="loginail-site/apercus-mini/${t[2]}.webp" alt="" loading="lazy"></div><b>${t[0]}</b><small>${t[3]} · touchez pour ouvrir</small></a>`).join("");
 void UNI.map(t=>`<a class="carte" href="${url(t[1])}" data-u="${url(t[1])}"><div class="ph"><img src="loginail-site/apercus-mini/${t[2]}.webp" alt="" loading="lazy"></div><b>${t[0]}</b><small>${t[3]}</small></a>`).join("");

diff --git a/loginail-creer/hero-format.js b/loginail-creer/hero-format.js
@@ -31,7 +31,7 @@
   .hf.C .hf-nom{position:relative;z-index:2;margin:-0.95em 22px 0;font-size:clamp(60px,19vw,92px)}
   .hf.C .hf-nom span{display:block}
   .hf.C .hf-nom .sur{color:#fff;text-shadow:0 2px 18px rgba(0,0,0,.28)}
-  .hf.C .hf-bas{padding:14px 24px 30px}
+  .hf.C .hf-bas{padding:14px 24px 30px}.ecran:has(.fond-site) .hf.C .hf-nom span:not(.sur),.ecran:has(.fond-site) .hf.C .hf-bas{background:var(--creme,#F6F3EF)}.ecran:has(.fond-site) .hf.C .hf-nom span:not(.sur){box-shadow:-22px 0 0 var(--creme,#F6F3EF),22px 0 0 var(--creme,#F6F3EF)}
   .hf.C .hf-res{margin-top:16px;background:var(--encre,#1E1C1B);color:#F6F3EF}
   /* B : arche : le nom en haut, une photo d'ongles dans une arche arrondie (comme un ongle amande) */
   .hf.B{color:var(--encre,#1E1C1B);text-align:center;padding:calc(var(--hf-top,22px) + 30px) 22px 34px}

diff --git a/loginail-creer/pret.html b/loginail-creer/pret.html
@@ -3121,7 +3121,7 @@ document.addEventListener("scroll",e=>{if(e.target.classList?.contains("defile")
 document.querySelectorAll("[data-pf] .ecran").forEach(e=>{try{apres(e)}catch(x){}});
 </script>
 <script src="../loginail-site/options-site.js"></script><script src="resa-simu.js"></script><script src="legal-site.js"></script><script src="menu-carre.js?v=3"></script><script src="menu-coffin.js?v=3"></script>
-<script src="hero-format.js?v=48"></script>
+<script src="hero-format.js?v=49"></script>
 <script>
 /* 09/11 (Marie) : les charms posés avec le présentoir (BR.stickers : n, x en % de la largeur, y en px, taille s, rotation r, largeur w du téléphone) ; ils flottent doucement */
 (function(){try{if(typeof BR==="undefined"||!BR||!Array.isArray(BR.stickers)||!BR.stickers.length)return;
